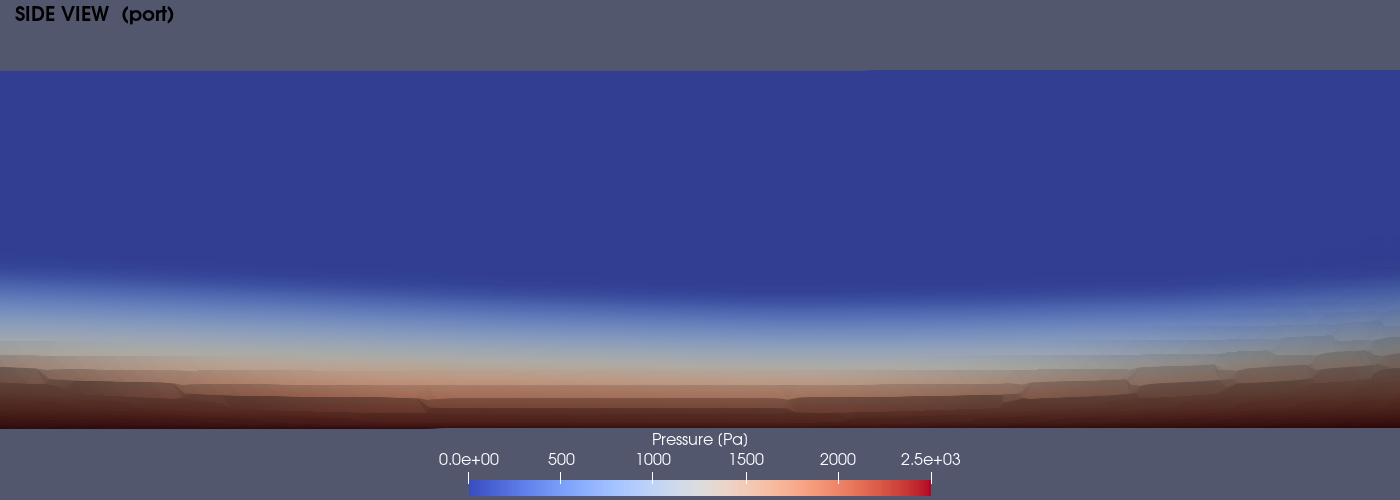
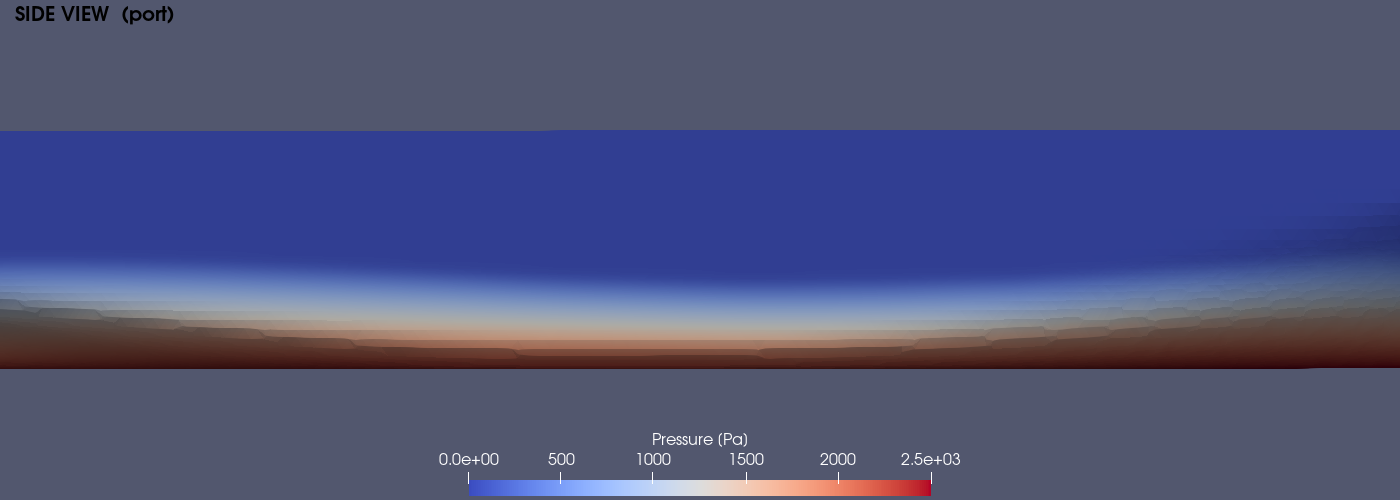
Zoom out side view, mirror hull for full-width bow-on image

diff --git a/render_fields.py b/render_fields.py
@@ -97,12 +97,12 @@ Render()
 save(f'{CASE}/hull_pressure_iso.png', 1400, 700)
 Hide(bow_txt); Delete(bow_txt)
 
-# Side view: looking along +y (port side), x horizontal, z vertical
-vp.ViewSize           = [1400, 500]
-vp.CameraPosition     = [ 3.0, -10.0, 0.28]
-vp.CameraFocalPoint   = [ 3.0,   0.0, 0.28]
-vp.CameraViewUp       = [0, 0, 1]
-vp.CameraParallelScale = 0.40
+# Side view: zoomed out to show full hull length
+vp.ViewSize            = [1400, 500]
+vp.CameraPosition      = [ 3.0, -10.0, 0.28]
+vp.CameraFocalPoint    = [ 3.0,   0.0, 0.28]
+vp.CameraViewUp        = [0, 0, 1]
+vp.CameraParallelScale = 0.60   # wider than before
 
 side_txt = Text(); side_txt.Text = 'SIDE VIEW  (port)'
 sDsp = Show(side_txt); sDsp.FontSize = 20; sDsp.Bold = 1
@@ -114,22 +114,30 @@ Render()
 save(f'{CASE}/hull_pressure_side.png', 1400, 500)
 Hide(side_txt); Delete(side_txt)
 
-# Bow-on view: looking from +x toward stern, y horizontal, z vertical
-vp.ViewSize            = [700, 700]
-vp.CameraPosition      = [10.0, -0.2, 0.28]
-vp.CameraFocalPoint    = [ 3.0, -0.2, 0.28]
-vp.CameraViewUp        = [0, 0, 1]
-vp.CameraParallelScale = 0.40
+# Bow-on view: mirror hull across y=0 to show full ship width
+hull_mirror  = Reflect(Input=hull_p)
+hull_mirror.Plane = 'Y Min'   # reflect across y=0 plane
+hull_mirror.UpdatePipeline()
+mirrorDsp = Show(hull_mirror)
+ColorBy(mirrorDsp, ('POINTS', 'p'))
+mirrorDsp.LookupTable = lut_p
 
-bow2_txt = Text(); bow2_txt.Text = 'BOW-ON VIEW'
+vp.ViewSize            = [900, 700]
+vp.CameraPosition      = [10.0,  0.0, 0.28]
+vp.CameraFocalPoint    = [ 3.0,  0.0, 0.28]
+vp.CameraViewUp        = [0, 0, 1]
+vp.CameraParallelScale = 0.50
+
+bow2_txt = Text(); bow2_txt.Text = 'BOW-ON VIEW  (full ship mirrored)'
 b2Dsp = Show(bow2_txt); b2Dsp.FontSize = 20; b2Dsp.Bold = 1
 b2Dsp.Color = [0,0,0]; b2Dsp.WindowLocation = 'Upper Left Corner'
 
 hide_all_colorbars()
 cb_p.Visibility = 1
 Render()
-save(f'{CASE}/hull_pressure_bow.png', 700, 700)
+save(f'{CASE}/hull_pressure_bow.png', 900, 700)
 Hide(bow2_txt); Delete(bow2_txt)
+Hide(mirrorDsp); Delete(hull_mirror)
 
 Delete(hull_p); del hull_p
 